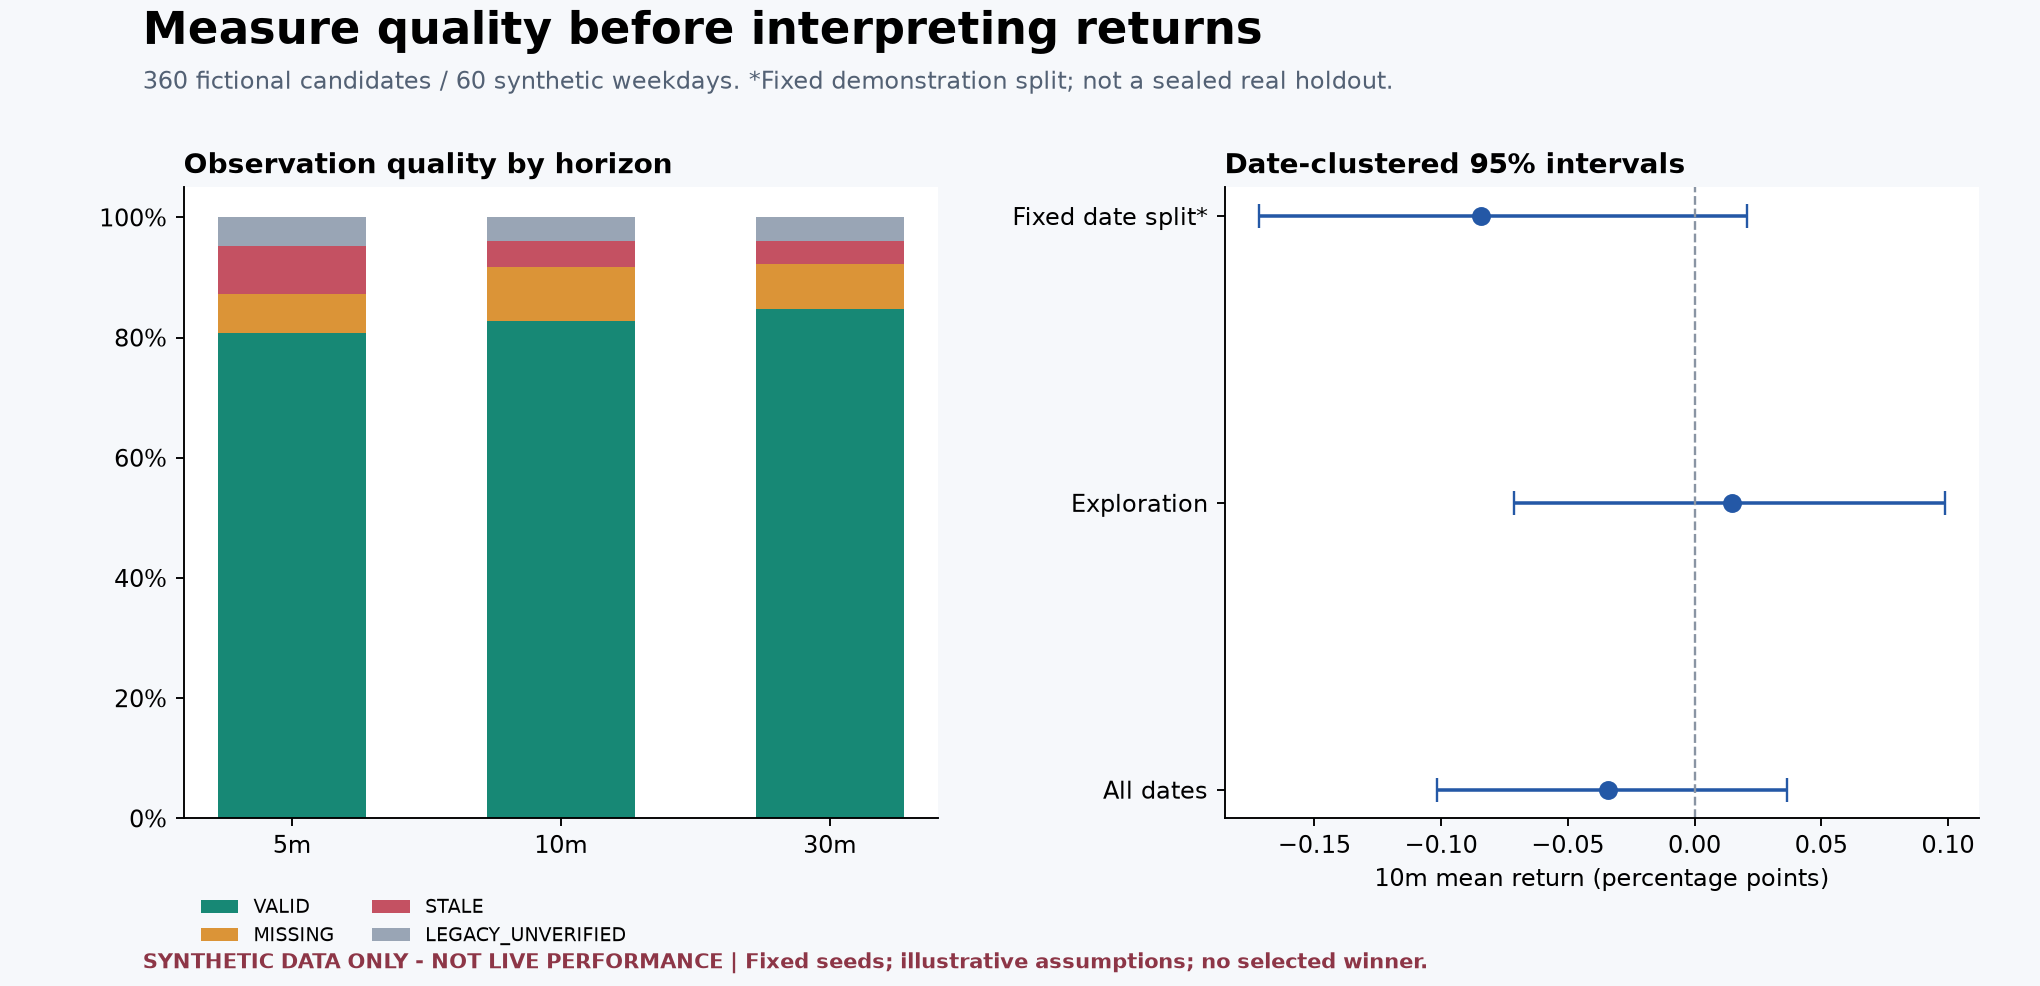
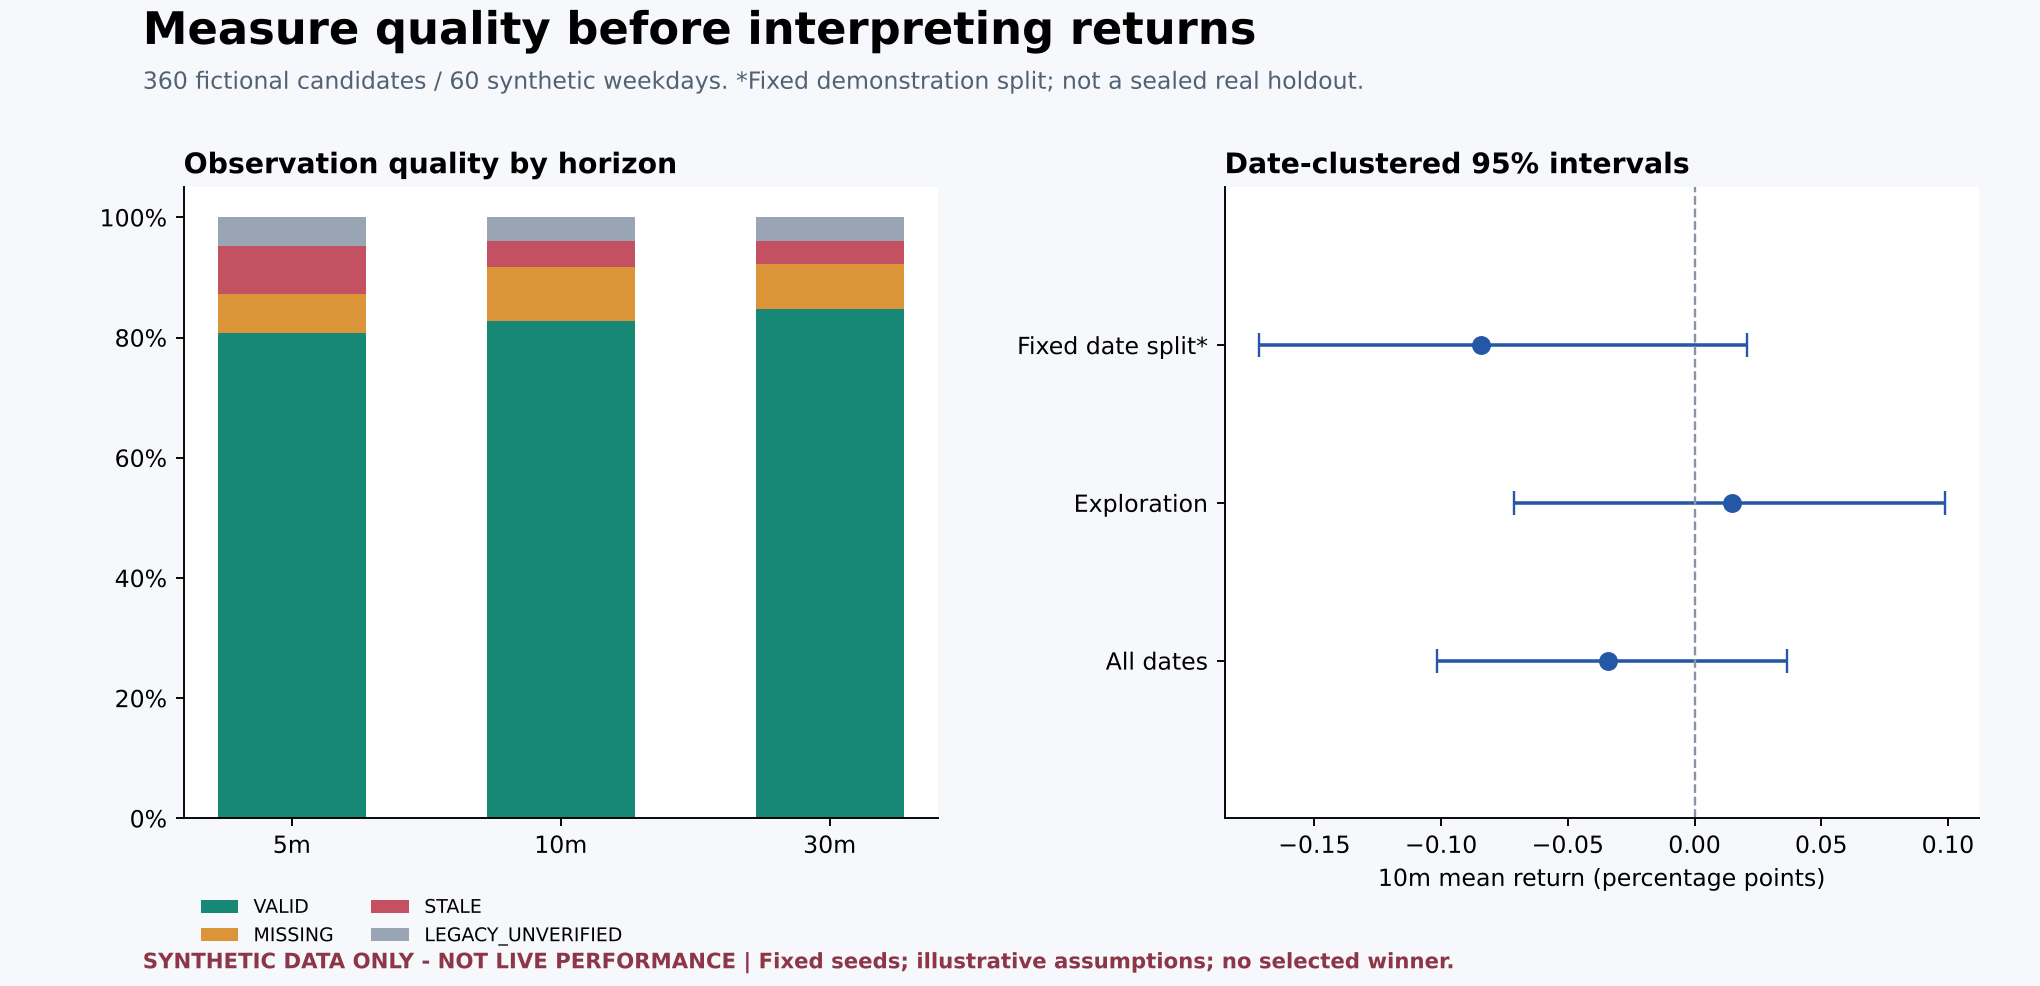
Improve synthetic demo charts: readable exposure paths, labeled counts, assumption note
Claude-Session: https://claude.ai/code/session_01HyBLfDs4pgzmruTQyUSwgz

diff --git a/examples/generate_synthetic_demo.py b/examples/generate_synthetic_demo.py
@@ -106,9 +106,11 @@ def graphs(directory, stats, executions, allocation, maker):
                          'axes.spines.right': False, 'axes.titleweight': 'bold', 'figure.facecolor': '#f6f8fb',
                          'axes.facecolor': '#ffffff', 'savefig.facecolor': '#f6f8fb'})
     blue, green, orange, red = '#2458a6', '#178875', '#db9437', '#c45162'
-    def save(fig, name, title, subtitle):
+    def save(fig, name, title, subtitle, note=None):
         fig.suptitle(title, fontsize=19, fontweight='bold', x=.07, ha='left', y=.99)
         fig.text(.07, .91, subtitle, color='#536174', fontsize=10)
+        if note:
+            fig.text(.07, .875, note, color='#8d3647', fontsize=9.5, style='italic')
         fig.text(.07, .018, LABEL + ' | Fixed seeds; illustrative assumptions; no selected winner.',
                  color='#8d3647', fontsize=9, fontweight='bold')
         fig.subplots_adjust(left=.09, right=.97, top=.81, bottom=.17, wspace=.38, hspace=.5)
@@ -128,6 +130,7 @@ def graphs(directory, stats, executions, allocation, maker):
         axes[1].errorbar(item['mean'], y, xerr=[[item['mean']-lo],[hi-item['mean']]], fmt='o',
                          color=blue, capsize=5, markersize=7)
     axes[1].set_yticks(range(3), ['All dates','Exploration','Fixed date split*'])
+    axes[1].set_ylim(-1,3)
     axes[1].axvline(0,color='#8994a3',ls='--',lw=1); axes[1].set_xlabel('10m mean return (percentage points)')
     axes[1].set_title('Date-clustered 95% intervals', loc='left')
     save(fig,'01_quality_and_uncertainty.png','Measure quality before interpreting returns',
@@ -138,6 +141,10 @@ def graphs(directory, stats, executions, allocation, maker):
     for x,(g,n) in enumerate(zip(gross,net)):
         axes[0].bar(x-.16,g,width=.3,color=blue,label='Reference gross' if x==0 else None)
         axes[0].bar(x+.16,n,width=.3,color=orange,label='After assumed costs' if x==0 else None)
+    for x,(g,n) in enumerate(zip(gross,net)):
+        axes[0].text(x-.16,g-.012,f'{g:.3f}',ha='center',va='top',fontsize=8)
+        axes[0].text(x+.16,n-.012,f'{n:.3f}',ha='center',va='top',fontsize=8)
+    axes[0].set_ylim(min(net+gross)-.07,.02)
     axes[0].set_xticks([0,1],labels); axes[0].axhline(0,color='#8994a3',lw=1)
     axes[0].set_ylabel('Mean closed-trade return (percentage points)')
     axes[0].legend(fontsize=8,frameon=False); axes[0].set_title('Complete-input controlled comparison',loc='left')
@@ -145,19 +152,25 @@ def graphs(directory, stats, executions, allocation, maker):
     selected=[executions[1],executions[3],executions[2]]
     axes[1].barh(status_labels,[r['closed'] for r in selected],color=green,label='Closed')
     axes[1].barh(status_labels,[r['unresolved'] for r in selected],left=[r['closed'] for r in selected],color=red,label='Unpriced')
-    axes[1].set_xlabel('Filled positions'); axes[1].legend(frameon=False,fontsize=8)
+    peak=max(r['closed']+r['unresolved'] for r in selected)
+    axes[1].set_xlim(0,peak*1.5)
+    for y,r in enumerate(selected):
+        axes[1].text(r['closed']+r['unresolved']+peak*.02,y,f"{r['closed']} closed / {r['unresolved']} unpriced",va='center',fontsize=8.5)
+    axes[1].set_xlabel('Filled positions'); axes[1].legend(frameon=False,fontsize=8,loc='lower right')
     axes[1].set_title('Missing exits keep capital reserved',loc='left')
     save(fig,'02_costs_and_unknown_exits.png','Costs and missing exits change the answer',
          '10m long-only scenarios. Clean inputs are a separate counterfactual, never repaired real observations.')
     fig, axes = plt.subplots(1,2,figsize=(12,5.8))
     colors=[blue,green,orange]; names=['Fixed cash','Fixed fraction','Inverse volatility']
     for result,color,label in zip(allocation['results'],colors,names):
-        snap=result['allocation_analysis']['snapshots']
-        axes[0].plot(range(len(snap)),[s['gross_fraction']*100 for s in snap],color=color,alpha=.8,lw=1,label=label)
+        peaks={}
+        for item in result['allocation_analysis']['snapshots']:
+            day=item['time'][:10]; peaks[day]=max(peaks.get(day,0),item['gross_fraction']*100)
+        axes[0].plot(range(1,len(peaks)+1),list(peaks.values()),color=color,lw=1.8,marker='o',markersize=3.5,label=label)
     axes[0].axhline(80,color=red,ls='--',lw=1,label='Entry gross cap')
-    axes[0].set_ylim(0,100); axes[0].set_xlabel('Entry/exit snapshot index (policy-specific)')
-    axes[0].set_ylabel('Cost-basis gross exposure (%)'); axes[0].legend(fontsize=8,frameon=False)
-    axes[0].set_title('Exposure paths; no market-value claims',loc='left')
+    axes[0].set_ylim(0,100); axes[0].set_xlabel('Synthetic trading day (fixed split onward)')
+    axes[0].set_ylabel('Daily peak cost-basis gross exposure (%)'); axes[0].legend(fontsize=8,frameon=False,loc='lower right')
+    axes[0].set_title('Daily peak exposure; no market-value claims',loc='left')
     stress_names=list(allocation['results'][0]['allocation_analysis']['stress_worst'])
     for offset,(stress,color) in enumerate(zip(stress_names,[blue,red])):
         values=[r['allocation_analysis']['stress_worst'][stress]['loss_pct'] for r in allocation['results']]
@@ -176,7 +189,8 @@ def graphs(directory, stats, executions, allocation, maker):
     axes[0].set_ylabel('Signed inventory (shares)');axes[1].set_ylabel('Marked P&L (arbitrary units)')
     axes[1].set_xlabel('Synthetic event step');axes[0].legend(frameon=False,fontsize=9)
     save(fig,'04_market_making_inventory.png','Quoting creates inventory and price risk',
-         'Both policies replay the same 500-event tape (seed 11). Residual inventory is marked, not liquidated.')
+         'Both policies replay the same 500-event tape (seed 11). Residual inventory is marked, not liquidated.',
+         note='Model assumption, not evidence: crossing orders always fill and no competing makers exist, so positive P&L reflects the toy rules.')
 
 
 def build(output, plots=True):
